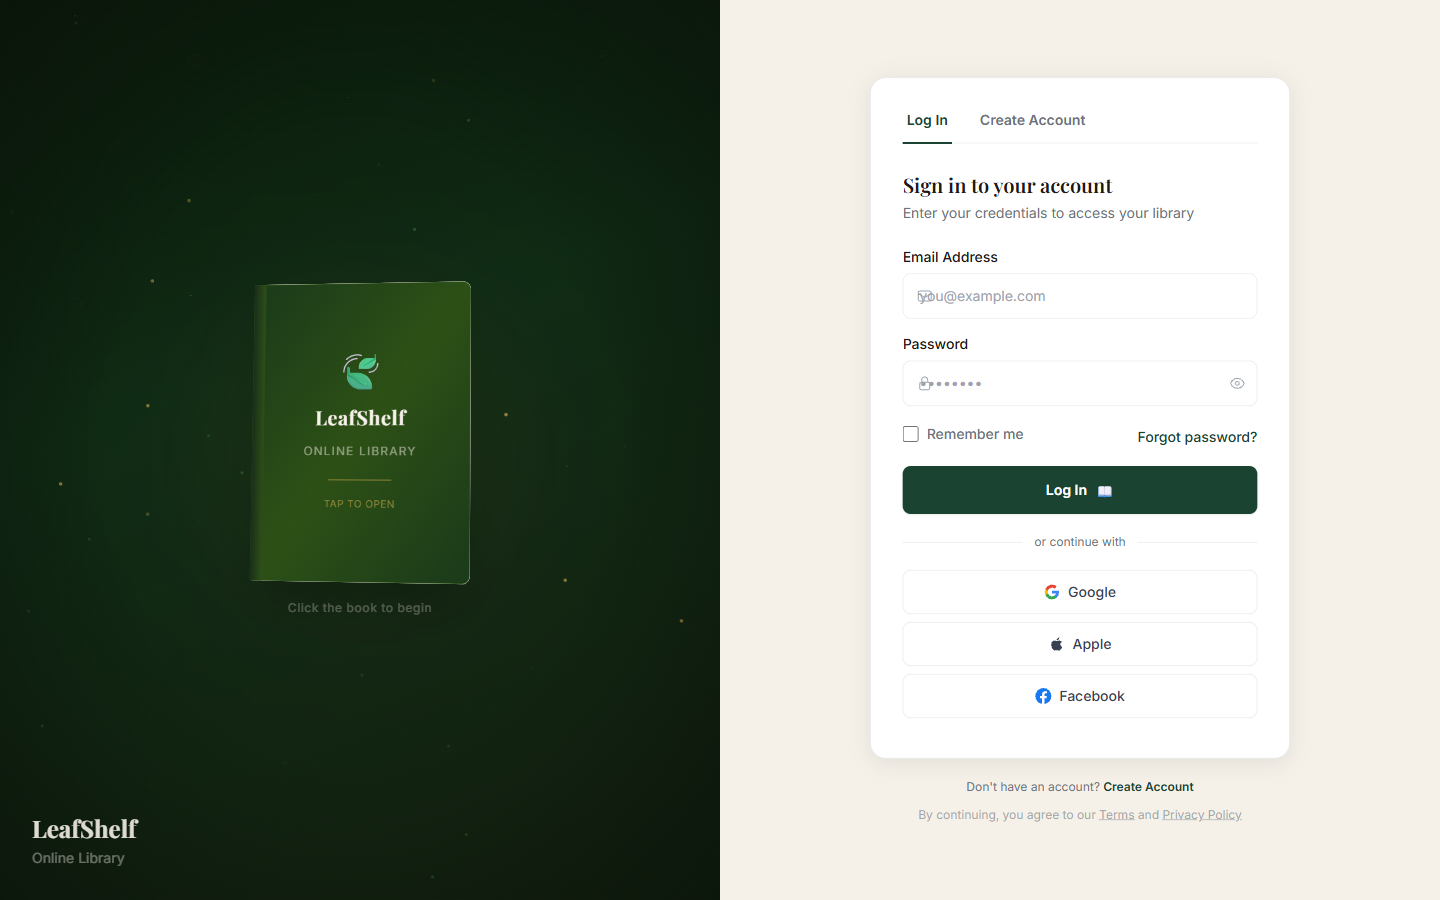
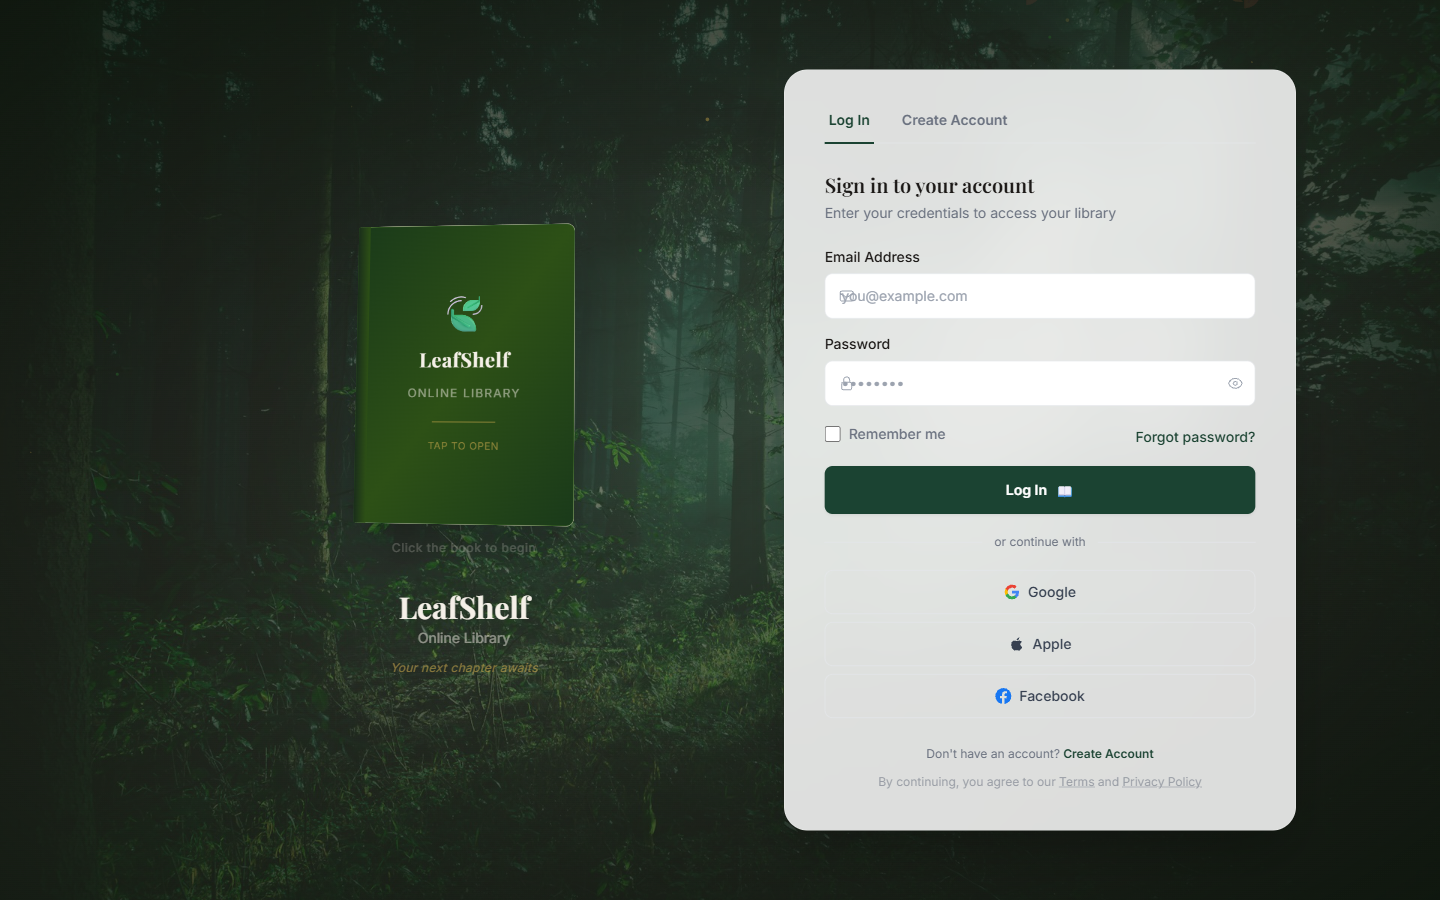
redesign: full-page nature background with glassmorphism form

diff --git a/leafshelf-jee/client/src/pages/Login.tsx b/leafshelf-jee/client/src/pages/Login.tsx
@@ -5,7 +5,6 @@ import { useAuth } from '../lib/auth';
 import Leaf from '../components/Leaf';
 import { useFirstLogin } from '../hooks/useFirstLogin';
 import { Particles } from '../components/magicui/particles';
-import { BlurFade } from '../components/magicui/blur-fade';
 import { Book3D } from '../components/Book3D';
 
 type Tab = 'login' | 'register';
@@ -145,67 +144,53 @@ export default function Login() {
   ];
 
   return (
-    <div className="flex h-screen overflow-hidden">
-      {/* Left branding panel — dark forest scene (desktop only) */}
-      <div className="hidden lg:flex lg:w-1/2 relative overflow-hidden items-center justify-center"
-           style={{ background: 'linear-gradient(160deg, #0a1a0a 0%, #0f2a14 40%, #142010 100%)' }}>
-        {/* Green particles */}
-        <Particles className="absolute inset-0 z-0" quantity={40} ease={90} color="#2d6a2e" refresh={false} size={0.5} />
-        {/* Gold accent particles */}
-        <Particles className="absolute inset-0 z-0" quantity={12} ease={70} color="#c9a84c" refresh={false} size={0.7} />
-        {/* Dot pattern overlay */}
-        <div className="absolute inset-0 opacity-[0.03] z-0"
-             style={{ backgroundImage: 'radial-gradient(circle, #2d6a2e 1px, transparent 1px)', backgroundSize: '30px 30px' }} />
-        {/* Warm spotlight */}
-        <div className="absolute top-1/2 left-1/2 -translate-x-1/2 -translate-y-1/2 w-96 h-96 rounded-full z-0 blur-3xl"
-             style={{ background: 'radial-gradient(circle, rgba(201,168,76,0.25) 0%, transparent 70%)', opacity: 0.6 }} />
-        {/* Vignette edges */}
-        <div className="absolute inset-0 z-[1] pointer-events-none"
-             style={{ background: 'radial-gradient(ellipse at center, transparent 50%, rgba(10,20,10,0.8) 100%)' }} />
-        {/* Falling leaf shapes */}
-        {[...Array(6)].map((_, i) => (
-          <div
-            key={i}
-            className="absolute text-green-500/15 pointer-events-none z-0"
-            style={{
-              left: `${10 + i * 15}%`,
-              top: `-${20 + i * 10}px`,
-              fontSize: `${14 + i * 3}px`,
-              animation: `leafFall ${8 + i * 3}s linear ${i * 1.5}s infinite`,
-              transform: `rotate(${i * 40}deg)`,
-            }}
-          >
-            🍂
+    <div className="relative min-h-screen overflow-hidden">
+      {/* Layer 1: Full-page nature background image */}
+      <div
+        className="absolute inset-0 bg-cover bg-center bg-no-repeat"
+        style={{
+          backgroundImage: `url('https://images.unsplash.com/photo-1448375240586-882707db888b?w=1920&q=80')`,
+        }}
+      />
+      {/* Layer 2: Dark green overlay for readability */}
+      <div className="absolute inset-0 bg-gradient-to-br from-[#0a1a0a]/70 via-[#1a2e1a]/60 to-[#0f1a0f]/80" />
+      {/* Layer 3: Particles */}
+      <Particles className="absolute inset-0 z-10" quantity={40} ease={90} color="#2d6a2e" size={0.5} refresh={false} />
+      <Particles className="absolute inset-0 z-10" quantity={10} ease={70} color="#c9a84c" size={0.8} refresh={false} />
+      {/* Layer 4: Vignette */}
+      <div className="absolute inset-0 z-10 pointer-events-none"
+           style={{ background: 'radial-gradient(ellipse at center, transparent 40%, rgba(10,20,10,0.6) 100%)' }} />
+
+      {/* Layer 5: Content */}
+      <div className="relative z-20 min-h-screen flex items-center justify-between max-w-7xl mx-auto px-8 lg:px-16 py-12">
+        {/* LEFT: Book + brand (desktop only) */}
+        <div className="hidden lg:flex flex-col items-center gap-8 flex-1">
+          <div id="book-area">
+            <Book3D onComplete={() => {
+              document.querySelector('#login-form')?.scrollIntoView({ behavior: 'smooth' });
+            }} />
           </div>
-        ))}
-        {/* 3D Book */}
-        <div className="relative z-10">
-          <Book3D onComplete={() => {
-            document.querySelector('#login-form')?.scrollIntoView({ behavior: 'smooth' });
-          }} />
-        </div>
-        {/* Bottom brand text */}
-        <div className="absolute bottom-8 left-8 z-10">
-          <BlurFade delay={0.3} inView>
-            <h2 className="text-2xl font-bold text-[#f5f0e8]/90"
+          <div className="text-center">
+            <h1 className="text-3xl font-bold text-[#f5f0e8]"
                 style={{ fontFamily: "'Playfair Display', serif" }}>
               LeafShelf
-            </h2>
-            <p className="text-sm text-[#f5f0e8]/40 mt-1">Online Library</p>
-          </BlurFade>
-        </div>
-      </div>
-
-      {/* Right form panel */}
-      <div className="flex-1 flex items-center justify-center px-6 py-10 overflow-y-auto" style={{ backgroundColor: '#F5F0E8' }}>
-        <div className="w-full max-w-[420px]">
-
-          <div className="flex items-center gap-2 mb-8 lg:hidden">
-            <Leaf className="w-8 h-8" />
-            <span className="font-serif text-lg font-bold text-forest-dark">Leaf<span className="text-gold-dark">Shelf</span></span>
+            </h1>
+            <p className="text-[#f5f0e8]/50 text-sm mt-1">Online Library</p>
+            <p className="text-[#c9a84c]/60 text-xs mt-3 italic tracking-wide">
+              Your next chapter awaits
+            </p>
           </div>
+        </div>
 
-          <div id="login-form" className="bg-white rounded-2xl border border-border shadow-[0_4px_24px_rgba(0,0,0,0.08)] max-w-[420px] p-8">
+        {/* RIGHT: Glassmorphism form card */}
+        <div className="w-full max-w-md lg:max-w-lg flex-shrink-0">
+          <div id="login-form" className="backdrop-blur-xl bg-white/85 rounded-3xl shadow-2xl border border-white/30 p-8 lg:p-10">
+            {/* Mobile logo */}
+            <div className="flex items-center gap-2 mb-6 lg:hidden">
+              <Leaf className="w-8 h-8" />
+              <span className="font-serif text-lg font-bold text-forest-dark">Leaf<span className="text-gold-dark">Shelf</span></span>
+            </div>
+
             {/* Tabs */}
             <div className="flex mb-7 border-b border-border">
               <button
@@ -309,22 +294,38 @@ export default function Login() {
                 </div>
               </>
             )}
-          </div>
 
-          <p className="mt-5 text-center text-xs text-muted">
-            {tab === 'login' ? (
-              <>Don't have an account?{' '}<button onClick={() => switchTab('register')} className="text-forest-dark font-semibold hover:text-forest transition-colors">Create Account</button></>
-            ) : (
-              <>Already have an account?{' '}<button onClick={() => switchTab('login')} className="text-forest-dark font-semibold hover:text-forest transition-colors">Log In</button></>
-            )}
-          </p>
-          <p className="mt-3 text-center text-xs text-muted/60">
-            By continuing, you agree to our{' '}
-            <span className="underline cursor-pointer hover:text-muted transition-colors">Terms</span>{' '}and{' '}
-            <span className="underline cursor-pointer hover:text-muted transition-colors">Privacy Policy</span>
-          </p>
+            <p className="mt-5 text-center text-xs text-muted">
+              {tab === 'login' ? (
+                <>Don't have an account?{' '}<button onClick={() => switchTab('register')} className="text-forest-dark font-semibold hover:text-forest transition-colors">Create Account</button></>
+              ) : (
+                <>Already have an account?{' '}<button onClick={() => switchTab('login')} className="text-forest-dark font-semibold hover:text-forest transition-colors">Log In</button></>
+              )}
+            </p>
+            <p className="mt-3 text-center text-xs text-muted/60">
+              By continuing, you agree to our{' '}
+              <span className="underline cursor-pointer hover:text-muted transition-colors">Terms</span>{' '}and{' '}
+              <span className="underline cursor-pointer hover:text-muted transition-colors">Privacy Policy</span>
+            </p>
+          </div>
         </div>
       </div>
+
+      {/* Layer 6: Falling leaf shapes */}
+      {[...Array(6)].map((_, i) => (
+        <div
+          key={i}
+          className="absolute text-green-300/10 pointer-events-none z-10"
+          style={{
+            left: `${10 + i * 15}%`,
+            top: '-30px',
+            fontSize: `${16 + i * 3}px`,
+            animation: `leafFall ${9 + i * 3}s linear ${i * 1.8}s infinite`,
+          }}
+        >
+          🍂
+        </div>
+      ))}
     </div>
   );
 }

diff --git a/leafshelf-jee/client/src/index.css b/leafshelf-jee/client/src/index.css
@@ -106,10 +106,10 @@ input:-webkit-autofill:active {
 
 /* Falling leaf animation */
 @keyframes leafFall {
-  0%   { transform: translateY(-20px) rotate(0deg) translateX(0px); opacity: 0; }
-  10%  { opacity: 0.15; }
-  90%  { opacity: 0.15; }
-  100% { transform: translateY(110vh) rotate(360deg) translateX(40px); opacity: 0; }
+  0%   { transform: translateY(-30px) rotate(0deg) translateX(0px); opacity: 0; }
+  10%  { opacity: 0.12; }
+  90%  { opacity: 0.12; }
+  100% { transform: translateY(110vh) rotate(360deg) translateX(50px); opacity: 0; }
 }
 
 /* 3D book floating animation */
